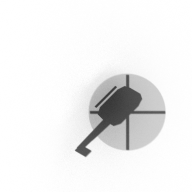
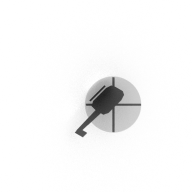
fit the helicopter and its shadow inside the two-tile square the game draws it in
The game draws a helicopter into a square of two tiles, as the original's 32 px sprite, and the
render's helicopter and its flying shadow reached past it. It is now smaller and flies lower, so
both stay inside the middle two tiles of its frame in every heading, and is painted again.

Changed region(s): [[0.375, 0.375, 0.875, 0.8125]]

diff --git a/art/blender/vehicles/helicopter.py b/art/blender/vehicles/helicopter.py
@@ -13,8 +13,9 @@
 # The traffic helicopter, sprite 2, in its eight frames: 0 heading north and each next frame an
 # eighth of a turn clockwise (src/copterSprite.js). It flies HEIGHT above the ground it is over,
 # so its shadow falls away from it by that height and it reads as flying. It is drawn SIZE times
-# its modelled size, about as long as the original's sprite, low enough that its shadow stays in
-# the frame.
+# its modelled size, as small and as low as it must be for it and its shadow to stay inside the
+# middle two tiles of the frame: the game draws a helicopter into a square of two tiles, as the
+# original's 32 px sprite, and the atlas build crops each frame to it (docs/render-assets.md).
 
 import math
 import os
@@ -23,8 +24,8 @@ import sys
 sys.path.insert(0, os.path.join(os.path.dirname(os.path.abspath(__file__)), '..'))
 import tileart as t  # noqa: E402
 
-HEIGHT = 0.18
-SIZE = 1.3
+HEIGHT = 0.06
+SIZE = 0.95
 
 
 def helicopter(turn):
